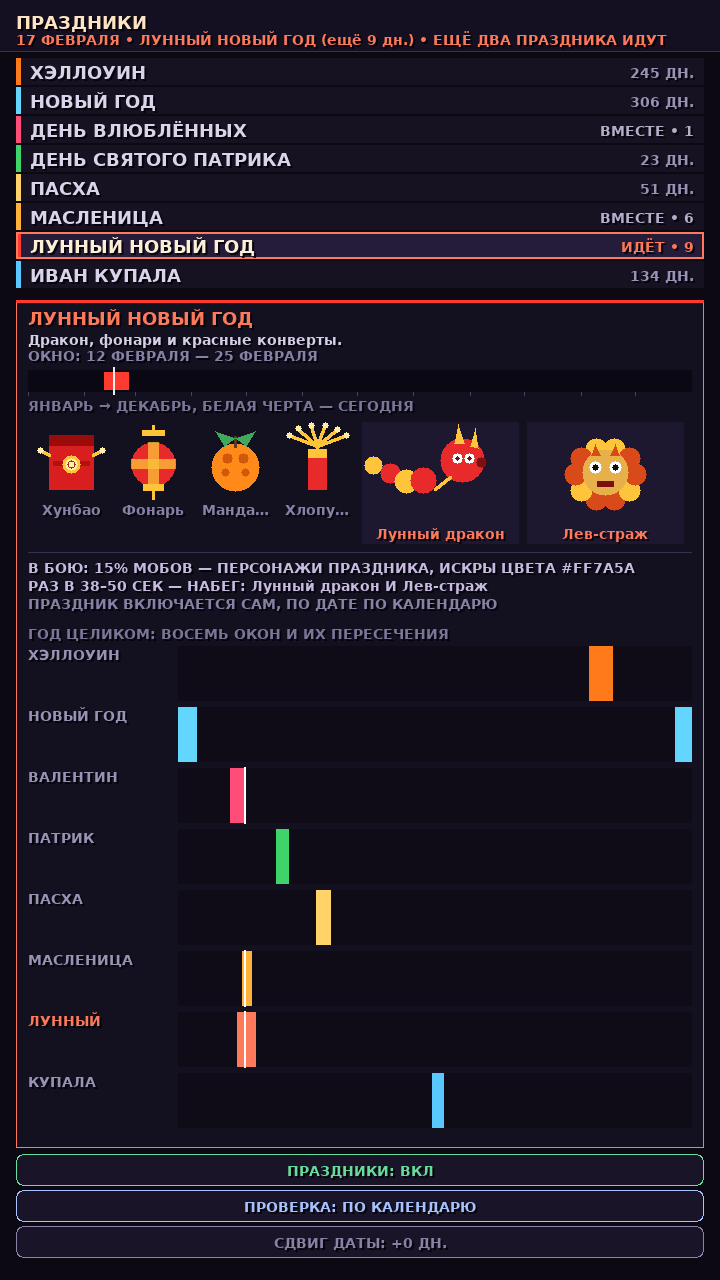
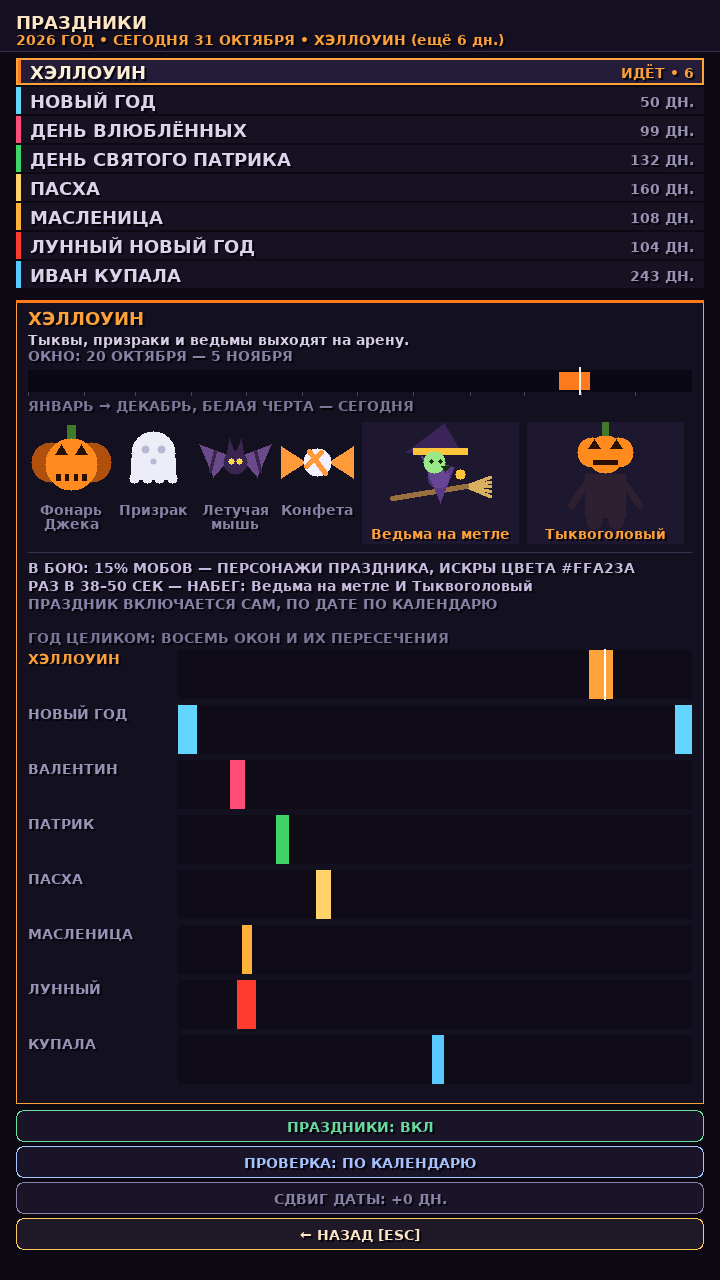
2.12.5: кнопка «НАЗАД» в календаре праздников
Выйти из экрана праздников можно было только клавишей ESC — на телефоне
клавиатуры нет, то есть календарь был ловушкой.

- Кнопка «← НАЗАД [ESC]»: в альбоме справа в ряду переключателей, в портрете
  четвёртой строкой; возвращает в holidayReturnState, как ESC/ENTER.
- Подвал портрета 132 -> 176 px (четыре кнопки), подсказка клавиш в альбоме
  переехала над ряд кнопок (раньше лежала на нём), подписи кнопок ужимаются по
  своей ширине.
- Снимки design/holiday_calendar*.png перегенерированы.
- screen_check: праздники 3f868c27 -> 39049f60, меню 8d3a3378 (номер версии).

diff --git a/src/game.h b/src/game.h
@@ -225,7 +225,7 @@ static inline int holidayMonsterSlot(int type) {
 static constexpr int STORY_INTRO_VERSION = 4;
 static constexpr int PATCH_NOTES_VERSION = GAME_VERSION_NUM;
 // Every released version has one entry in the chronicle (see versions[]/notes[]).
-static constexpr int PATCH_NOTES_COUNT = 159;
+static constexpr int PATCH_NOTES_COUNT = 160;
 
 // ── Arena identity ──────────────────────────────────────────────────────────────
 // Each act is a different place, not the same floor with a new tint: stone, mortar,
@@ -12244,7 +12244,9 @@ struct Game {
         // и строку «СЕГОДНЯ…» с экрана целиком.
         r.drawRect(0, 51, SCREEN_W, 1, 0xFF3A3050);
 
-        const int footerH = portrait ? 132 : 62;
+        // В портрете в подвале теперь четыре кнопки в столбик (три переключателя
+        // и «НАЗАД»), поэтому место под ним больше прежних 132 px.
+        const int footerH = portrait ? 176 : 62;
         const int bodyTop = 58, bodyBottom = SCREEN_H - footerH;
         const int listH = portrait ? std::min(236, (bodyBottom - bodyTop) * 40 / 100) : bodyBottom - bodyTop;
         const int listW = portrait ? SCREEN_W - 32 : std::min(360, SCREEN_W * 36 / 100);
@@ -12511,8 +12513,18 @@ struct Game {
         }
 
         // ── Переключатели ────────────────────────────────────────────────────
-        const int barY = bodyBottom + 6, barH = portrait ? 32 : footerH - 26;
-        const int barW = portrait ? (SCREEN_W - 32) : std::min(360, (SCREEN_W - 48) / 3);
+        // В альбоме подсказка клавиш стоит над кнопками, а не под ними: раньше
+        // строка на SCREEN_H - 22 ложилась прямо на ряд кнопок.
+        const int barH = 32;
+        const int barY = bodyBottom + (portrait ? 6 : 26);
+        // Кнопка «НАЗАД»: выйти из календаря можно было только клавишей ESC, а на
+        // телефоне клавиши нет вообще. В альбоме она стоит справа в том же ряду,
+        // в портрете — четвёртой строкой.
+        const int backW = portrait ? (SCREEN_W - 32) : std::max(110, std::min(170, SCREEN_W / 7));
+        const int backX = portrait ? 16 : SCREEN_W - 16 - backW;
+        const int backY = portrait ? barY + 3 * (barH + 4) : barY;
+        const int barW = portrait ? (SCREEN_W - 32)
+                                  : std::max(120, std::min(300, (SCREEN_W - 48 - backW) / 3));
         // В портрете три кнопки стоят столбиком: в строку они не влезают, и
         // раньше две из трёх уезжали за правый край экрана.
         auto button = [&](int index, const char* text, uint32_t color) {
@@ -12523,7 +12535,10 @@ struct Game {
             const bool hov = mouseX >= bx && mouseX <= bx + barW && mouseY >= by && mouseY <= by + h;
             r.fillRoundedRect(bx, by, barW, h, 6, hov ? 0xFF2A2040 : 0xFF1A1428);
             r.drawRoundedRect(bx, by, barW, h, 6, hov ? 0xFFFFD858 : color, hov ? 2 : 1);
-            r.drawTextCentered(FONT_SMALL, bx + barW / 2, by + (h - 14) / 2, text, color);
+            // Подпись ужимается под кнопку: на 800×600 «ПРОВЕРКА: ПО КАЛЕНДАРЮ»
+            // шире своей кнопки и наезжала на соседнюю.
+            r.drawTextCentered(FONT_SMALL, bx + barW / 2, by + (h - 14) / 2,
+                               fitText(r, FONT_SMALL, text, barW - 12).c_str(), color);
             return mouseClicked && hov;
         };
         char b1[64], b2[64], b3[48];
@@ -12543,13 +12558,28 @@ struct Game {
             options.holidayDateShift = options.holidayDateShift >= 42 ? 0 : options.holidayDateShift + 7;
             saveOptions(); sound.play(SFX_CLICK, 0.02f);
         }
+        // «НАЗАД» — такая же кнопка, как переключатели, но в акцентной рамке:
+        // экран с восемью праздниками и лентой года читается как справочный, и
+        // выйти из него должно быть видно, а не «догадайся про ESC».
+        {
+            const bool backHover = mouseX >= backX && mouseX <= backX + backW
+                                   && mouseY >= backY && mouseY <= backY + barH;
+            r.fillRoundedRect(backX, backY, backW, barH, 6, backHover ? 0xFF3A2C1A : 0xFF1F1826);
+            r.drawRoundedRect(backX, backY, backW, barH, 6,
+                              backHover ? 0xFFFFD858 : 0xFFFFC85A, backHover ? 2 : 1);
+            const std::string backLabel = keyHint("← НАЗАД [ESC]");
+            r.drawTextCentered(FONT_SMALL, backX + backW / 2, backY + (barH - 14) / 2,
+                               fitText(r, FONT_SMALL, backLabel.c_str(), backW - 10).c_str(), 0xFFFFE6C4);
+            if (mouseClicked && backHover) {
+                state = holidayReturnState;
+                sound.play(SFX_CLICK, 0.02f);
+            }
+        }
         if (!portrait) {
             // Подсказка ужимается под ширину: на 800×600 полный список клавиш
             // не влезал и обрезался на «• БЕЛ…».
             const std::string hint = keyHint("↑↓ — ПРАЗДНИК • ←→ — ПРОВЕРКА • [ ] — СДВИГ ДАТЫ • H — ВКЛ/ВЫКЛ • ESC — НАЗАД");
-            // Глиф FONT_SMALL — 19 px: строка на SCREEN_H - 16 упиралась в
-            // нижний край и читалась половинками букв.
-            r.drawTextCentered(FONT_SMALL, SCREEN_W / 2, SCREEN_H - 22,
+            r.drawTextCentered(FONT_SMALL, SCREEN_W / 2, bodyBottom + 3,
                                fitText(r, FONT_SMALL, hint.c_str(), SCREEN_W - 24).c_str(), 0xFFAAA0C8);
         }
     }
@@ -13029,6 +13059,7 @@ struct Game {
             "2.12.2 • ЧАСТОТА ПРЕДМЕТОВ НА ПОЛУ",
             "2.12.3 • WINDOWS-СБОРКА И АПДЕЙТЕР",
             "2.12.4 • АПДЕЙТЕР ПРОВЕРЯЕТ САМ СЕБЯ",
+            "2.12.5 • КНОПКА «НАЗАД» В ПРАЗДНИКАХ",
         };
                 // Заметки намеренно не сокращаются: панель листается колесом мыши.
         static const char* const notes[] = {
@@ -13190,6 +13221,7 @@ struct Game {
             "Частота встречи с предметами на полу теперь настройка, а не судьба.\n• В настройках появилась строка «Предметы на полу: частота появления» с четырьмя ступенями: ВЫКЛ, РЕДКО, ОБЫЧНО, ЧАСТО. Она меняет только две вещи — сколько предметов держится на арене и как часто приходит следующий. Урон, радиусы, время жизни и правила «наступить / обойти / постоять» общие: «часто» не должно значить «сильнее», иначе вместо частоты получилась бы ещё одна сложность.\n• Числа: ВЫКЛ — ноль предметов, таймер спавна не тикает вовсе; РЕДКО — 3 на поле, интервал 11 с, первый через 6 с; ОБЫЧНО — прежние 5 на поле, 6,5 с и 4 с, это умолчание; ЧАСТО — 8 на поле, 4 с и 2,5 с.\n• Переключение пересобирает пол сразу: иначе игрок жал бы на строку и не видел эффекта до следующего предмета, а при ВЫКЛ старые предметы оставались бы лежать до конца своей жизни.\n• Ступень видна и без захода в настройки: строка «ПОЛ» в F3 печатает «лежит/предел» и название ступени, поэтому «предметов нет» и «частота выключена» больше не выглядят одинаково.\n• На клавиатуре ступень листается клавишей P в настройках — рядом с [1–9] и [0], отдельного экрана не понадобилось.\n• Старые конфиги (96 байт) читаются как ОБЫЧНО: новая версия не должна включать игроку то, чего он не выбирал.\n• Попутно починена раскладка настроек: с двенадцатой строкой справка наезжала на кнопку «НАЗАД», а на 800×600 сама кнопка уезжала за нижний край — она была прибита координатой 651. Теперь settingsLayout() считает всё снизу вверх: кнопка от низа окна, над ней две полосы громкости, над ними строки справки, остаток — строкам настроек; если места мало, сначала теряется последняя строка справки, потом зазор, и только потом высота строки. Свободное место не оставляем дырой: зазор растягивается, блок подтягивается к середине. На телефоне строк тринадцать (добавляется «Размер кнопок»), в альбоме двенадцать, и обе цифры берутся из settingsRowCount(), а не из зашитых чисел.\n• Замер частоты отдельным стендом за 60 с на пустой арене (пик предметов / всего спавнов): ВЫКЛ 0/0, РЕДКО 2/5, ОБЫЧНО 3/9, ЧАСТО 5/15. Пик ниже предела, потому что предмет живёт 19 с и уходит раньше, чем пол успевает заполниться, — поэтому стенд мерит пик по кадрам, а не остаток в конце минуты.\n• Стенды: floor_probe вырос до 56 проверок (пик по каждой ступени, независимость урона от частоты, пересборка пола переключателем), touch_probe — 175 (чтение 96-байтного конфига), android_smoke считает строки через settingsRowCount(). screen_check: настройки 6bf6a2bf (новая строка и новая раскладка), меню 233dd6e0 — в нём номер версии; бой a52f9f57, бой пол 46f24a53 и остальные экраны не сдвинулись ни на пиксель.\n• Честно: частоту проверял стендом и снимками настроек на 1280×720, 960×720, 800×600 и в портрете 720×1600; насколько «ОБЫЧНО» приятнее «ЧАСТО» в живом забеге, решает человек.",
             "Windows-сборка снова собирается, а апдейтер больше не врёт о причинах.\n• Настоящая причина: с 2.10.48 в WinMain третий параметр был безымянным (LPSTR), а ниже командная строка читалась как lpCmdLine. GCC и clang на этом останавливаются, но стенды собирают другой файл, поэтому ошибку никто не видел: версии 2.10.48-2.12.2 на Windows не собирались вообще. Теперь параметр назван, и exe линкуется.\n• Почему это не всплыло раньше: все стенды - отдельные единицы трансляции, они включают game.h и не трогают src/main_win32.cpp. Появился tools/check_win32.sh: он собирает ровно тот же TU кросс-компилятором (Zig/LLVM, x86_64-windows-gnu) с теми же ключами, что build_windows.bat. Проверка занимает секунды и ловит именно такие разрывы.\n• Апдейтер: показ лога шага шёл внешней утилитой type, и на одной машине она падала как «ype». Код возврата снимался уже после показа, поэтому успешный git pull считался неудачным. Теперь код возврата снимается сразу после git, а лог печатается средствами cmd (FOR по файлу). Тот же порядок исправлен и в переключении ветки: раньше там показывался не тот файл.\n• Если сборка всё-таки не прошла, апдейтер больше не прячет причину: печатает строки с error из build\build.log и кладёт копию рядом - build_error.log. Прошлый раз причина была именно в этом логе, а на экране было только «g++ compile failed».\n• Новый tools/check_bat_labels.py: сверяет все goto и call с метками в update.bat и build_windows.bat. Опечатка в метке в cmd означает не ошибку, а тихое «продолжить со следующей строки» - такую поломку глазами не поймать.\n• Честно: проверено компиляцией и линковкой под Windows-цель, запуска на Windows не было. Апдейтер проверен разбором сгенерированного bat и сверкой меток, а не прогоном в cmd.",
             "Сборка 2.12.3 прошла, а в консоли осталось чужое сообщение - и это был не код игры.\n• В логе обновления появилась строка «после.» не является командой, хотя сборка закончилась BUILD SUCCESS. Такое бывает, когда update.bat на диске не совпадает с версией в ветке: cmd читает чужие строки и выполняет их обрывки. В том запуске копия действительно расходилась с веткой - апдейтер сам отложил её перед git pull, поэтому обновление всё равно доехало.\n• Теперь апдейтер сверяет себя с веткой до начала работы: git hash-object update.bat против HEAD:update.bat. Если файл испорчен или старше того, что лежит в ветке, он ставит версию из ветки и просит запустить заново - вместо того чтобы выполнять обрывки чужих строк. Если на диске лежит более свежая копия (её скачали руками), она остаётся: версии сравниваются.\n• Из 2.12.3 сюда же: код возврата git снимается до показа лога, показ идёт средствами cmd, а при провале сборки на экран попадают error-строки из build\build.log.\n• Честно: воспроизвести именно строку «после.» не удалось - в файле из ветки такой команды нет. Поэтому лечится не симптом, а причина: расхождение файла с веткой теперь видно и исправляется само.",
+            "Из календаря праздников нельзя было выйти мышью или пальцем.\n• Экран открывается из настроек и из паузы, но выйти из него можно было только клавишей ESC. Кнопки не было вовсе: три переключателя внизу — «ПРАЗДНИКИ», «ПРОВЕРКА», «СДВИГ ДАТЫ» — и всё. На телефоне клавиши нет, то есть с телефона календарь становился ловушкой.\n• Теперь в подвале есть «← НАЗАД [ESC]»: в альбоме — справа в ряду переключателей, в портрете — четвёртой строкой столбика. Та же кнопка, что в настройках: нажатие, подсветка под курсором, на телефоне подпись читается как «← НАЗАД».\n• Клавиши работают как раньше: ESC, ENTER и SPACE закрывают календарь и возвращают туда, откуда его открыли (в настройки или в паузу).\n• Попутно в альбоме подсказка клавиш стояла прямо на ряду кнопок (строка на SCREEN_H-22 при кнопках до SCREEN_H-20) — теперь она над рядом и ужимается по ширине. В портрете подвал вырос с 132 до 176 px: четыре кнопки в прежние 132 не вставали.\n• Подписи кнопок ужимаются по своей ширине: на 800×600 «ПРОВЕРКА: ПО КАЛЕНДАРЮ» была шире кнопки и заезжала на соседнюю.\n• Хеш экрана «праздники» сменился с 3f868c27 на 39049f60 — это тот самый ряд кнопок. Кадры боя не изменились: 2.12.5 рисует календарь, а не арену.",
         };
         static_assert(sizeof(versions) / sizeof(versions[0]) == PATCH_NOTES_COUNT,
                       "хроника: versions[] должен совпадать с PATCH_NOTES_COUNT");

diff --git a/src/version.h b/src/version.h
@@ -7,9 +7,9 @@
 // drift apart again. The fallback below only applies to plain `g++` builds
 // (IDE, syntax check, the headless tests).
 #ifndef GAME_VERSION
-#define GAME_VERSION "2.12.4"
+#define GAME_VERSION "2.12.5"
 #endif
 #ifndef GAME_VERSION_NUM
 // 2.9.80 -> 2*1000 + 9*100 + 80
-#define GAME_VERSION_NUM 3204
+#define GAME_VERSION_NUM 3205
 #endif

diff --git a/CHANGELOG.md b/CHANGELOG.md
@@ -1,4 +1,53 @@
-# CHANGELOG — ShadowSurvivors 2.12.4+
+# CHANGELOG — ShadowSurvivors 2.12.5+
+
+## 2.12.5 — «Кнопка „Назад“ в праздниках»
+
+Жалоба: «Нет кнопки выйти из меню праздников».
+
+### Что было не так
+
+Экран календаря открывается из настроек и из паузы, но выйти из него можно было
+только клавишей `ESC`. Кнопки не было вовсе: внизу стояли три переключателя —
+`ПРАЗДНИКИ: ВКЛ`, `ПРОВЕРКА`, `СДВИГ ДАТЫ` — и всё. На телефоне клавиатуры нет,
+то есть с телефона календарь был ловушкой: единственный выход — свернуть игру.
+
+Попутно выяснилось ещё два дефекта того же подвала:
+
+- в альбоме подсказка клавиш (`↑↓ — ПРАЗДНИК • …`) стояла прямо на ряду кнопок:
+  строка на `SCREEN_H-22` при кнопках до `SCREEN_H-20`;
+- на 800×600 подпись `ПРОВЕРКА: ПО КАЛЕНДАРЮ` была шире своей кнопки и заезжала
+  на соседнюю.
+
+### Что сделано
+
+- В подвале появилась кнопка **`← НАЗАД [ESC]`** — та же, что в настройках:
+  рамка, подсветка под курсором, нажатие мышью и пальцем. В альбоме она стоит
+  справа в ряду переключателей (ширина ряда пересчитана под неё), в портрете —
+  четвёртой строкой столбика.
+- Выход возвращает туда, откуда календарь открыли: в настройки или в паузу
+  (`holidayReturnState`). `ESC`, `ENTER` и `SPACE` работают как раньше.
+- Подвал в портрете вырос со 132 до 176 px: четыре кнопки в прежние 132 не
+  вставали.
+- Подсказка клавиш в альбоме переехала над ряд кнопок и ужимается по ширине.
+- Подписи кнопок ужимаются по своей ширине (`fitText`), а не по ширине экрана.
+
+### Проверка
+
+- Снимки `holidays` на 1280×720, 1152×720, 960×720, 800×600 и в портрете
+  720×1280: кнопка на месте, ничего не перекрывается, подписи читаются.
+- `screen_check`: хеш `праздники` сменился `3f868c27 → 39049f60` (это ряд кнопок).
+  Меню `8d3a3378` — в подвале номер версии. Остальные экраны не сдвинулись:
+  бой `a52f9f57`, бой пол `46f24a53`, настройки `6bf6a2bf`, справка `858ce3eb`.
+- Стенды: `holiday_probe`, `touch_probe` 175/0, `floor_probe` 56/0,
+  `sfx_probe` 791/0, `check_android.sh` 48/0, `check_version.py` — сходится.
+
+### Честно
+
+- Проверял снимками стенда, а не живьём: мышь и палец по кнопке не нажимал.
+  Логика нажатия — та же, что у переключателей рядом, и она проверена стендом
+  Android.
+
+
 
 ## 2.12.4 — «Апдейтер проверяет сам себя»
 
